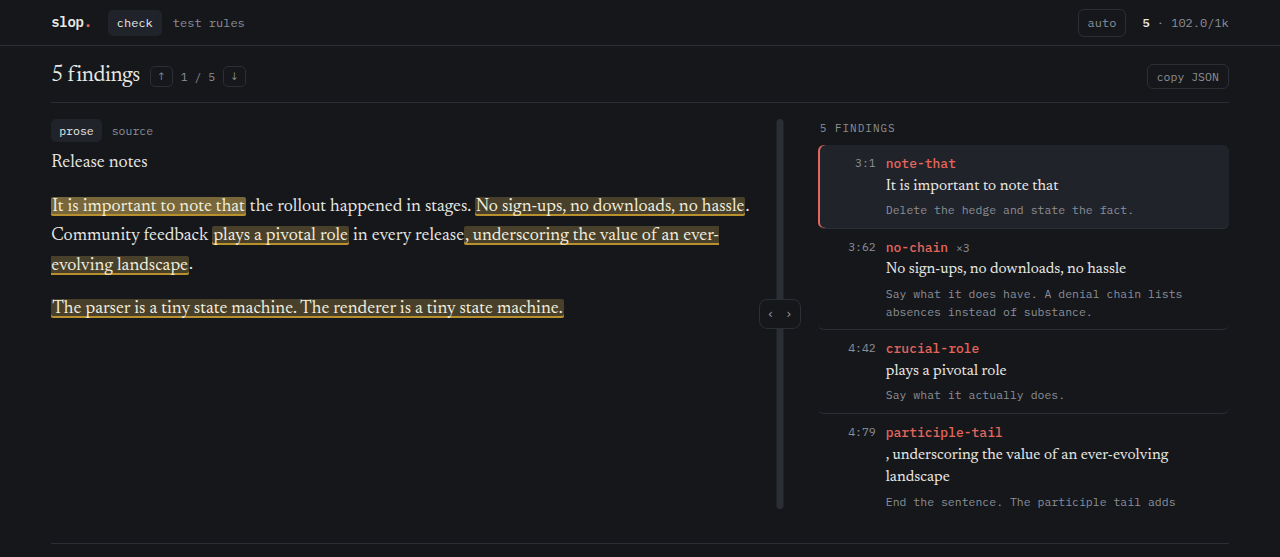
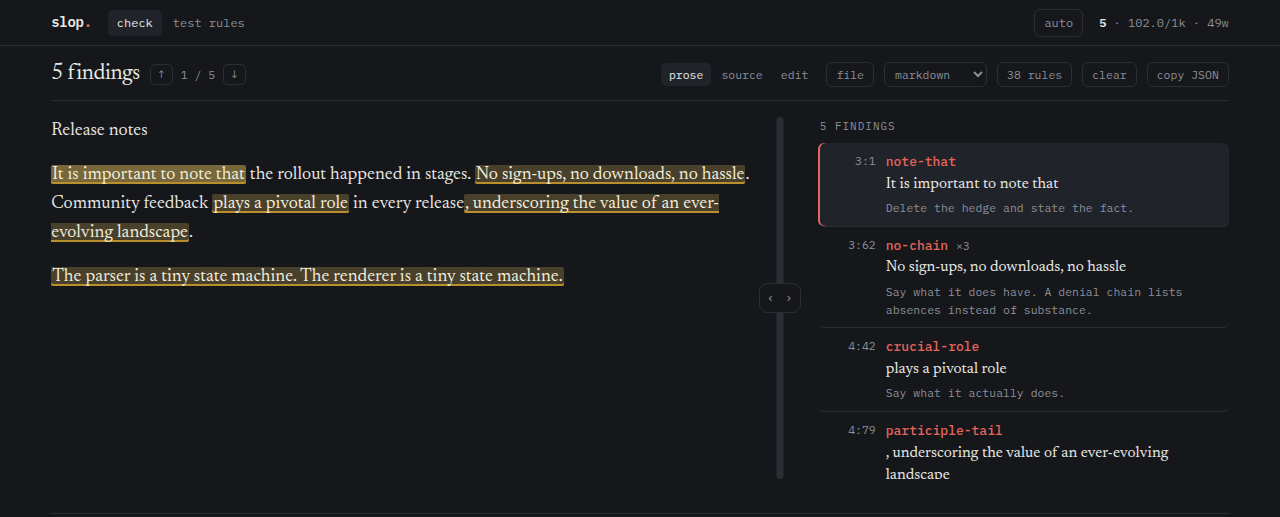
One region for the text: prose, source, or edit
The document was on screen twice - once in the input box, once again
under the source view. The input card is gone; the pane is the text, and
prose / source / edit are three views of it. Editing happens in place.

Everything that acts on the document sits in one row beside those views:
file, format, rules, clear, copy JSON. Load an example moves into the
empty state, where it belongs, rather than sitting in a toolbar
advertising itself over a document that is already loaded.

The format follows what you paste - markdown, HTML or plain text - until
you pick one yourself, and picking one stops the guessing until you
clear.

Empty, the pane is a live focused field with the invitation drawn over
it, because 'paste your writing here' needs somewhere to paste. That was
broken in the first cut of this: the hint appeared with no field behind
it.

Dropping a file over existing text replaces it, and clear empties
everything.

Claude-Session: https://claude.ai/code/session_018Qj5GUBjtVXSkmh6FBuMcT

diff --git a/web/index.html b/web/index.html
@@ -71,35 +71,31 @@ button,select,textarea,input{font:inherit;color:inherit}
 .hero .sub{color:var(--muted);font-size:12.5px;line-height:1.6;margin:0;max-width:62ch}
 .hero .sub code{background:var(--sunk);border-radius:4px;padding:1px 5px;color:var(--ink);white-space:nowrap}
 
-/* input — one card: the text, what to do with it, and which rules run. */
-.io{margin:22px 0 0}
-#input-card{
-  position:relative;border:1.5px dashed var(--hair);border-radius:10px;background:var(--card);
-  transition:border-color .12s,background .12s;
-}
-#input-card:focus-within{border-style:solid;border-color:var(--blue)}
-body.dragging #input-card{border-color:var(--blue);background:var(--sunk)}
+/* The pane is the text: read it, read the source, or edit it in place. */
 #input{
-  display:block;width:100%;min-height:132px;max-height:52vh;overflow:auto;resize:vertical;
-  border:0;background:none;padding:14px 16px 10px;color:inherit;
-  font-family:var(--mono);font-size:12.5px;line-height:1.7;
+  display:block;width:100%;min-height:min(66vh,640px);resize:none;
+  border:0;background:none;padding:0 2px;color:inherit;
+  font-family:var(--mono);font-size:12.5px;line-height:1.75;
 }
 #input:focus{outline:none}
-#input::placeholder{color:var(--muted)}
-.loaded{padding:16px;color:var(--muted);font-size:12.5px}
-.loaded b{color:var(--ink);font-weight:500}
-.tools{
-  display:flex;gap:8px;align-items:center;flex-wrap:wrap;
-  padding:9px 12px;border-top:1px solid var(--hair);
+.blank{
+  position:absolute;top:0;left:0;right:0;padding:30px 4px;max-width:52ch;
+  pointer-events:none;   /* the field underneath stays usable */
 }
-.tools select{background:var(--paper);border:1px solid var(--hair);border-radius:6px;padding:4px 7px;font-size:12px}
-.tools .n{margin-left:auto;color:var(--muted);font-size:11.5px;font-variant-numeric:tabular-nums}
+.blank .chip{pointer-events:auto}
+#pane-doc{position:relative}
+.blank .lead{font-family:var(--serif);font-size:22px;line-height:1.3;margin:0 0 8px;color:var(--ink)}
+.blank .sub{color:var(--muted);font-size:12.5px;line-height:1.6;margin:0 0 16px}
+.blank code{background:var(--sunk);border-radius:4px;padding:1px 5px;color:var(--ink)}
+body.dragging #pane-doc{outline:2px dashed var(--blue);outline-offset:6px;border-radius:8px}
 
 /* results */
 .results{margin:26px 0 0}
 .rhead{display:flex;align-items:center;gap:10px;padding-bottom:9px;border-bottom:1px solid var(--hair);margin-bottom:16px;flex-wrap:wrap}
 .rhead h2{font-family:var(--serif);font-size:22px;font-weight:400;margin:0;letter-spacing:-.015em}
+.rhead{position:relative}
 .rhead .chip{padding:3px 9px;font-size:11.5px}
+.rhead select{background:var(--paper);border:1px solid var(--hair);border-radius:6px;padding:3px 6px;font-size:11.5px;color:var(--muted)}
 .rhead .chip.done{border-color:var(--blue);color:var(--blue)}
 #copy-fallback{width:100%;height:150px;margin-bottom:12px;font-family:var(--mono);font-size:11.5px;
   border:1px solid var(--blue);border-radius:8px;background:var(--sunk);padding:10px;color:var(--ink)}
@@ -347,28 +343,6 @@ body.resizing{cursor:col-resize;user-select:none}
     <p class="sub">Flags stock LLM phrasing — <code>it is important to note that</code>, <code>no X, no Y, no Z</code> — at the line it came from, with the fix. Nothing leaves your browser.</p>
   </div>
 
-  <div class="io" id="io">
-    <div class="card" id="input-card">
-      <textarea id="input" spellcheck="false" placeholder="Paste text here, or drop files, a folder or a .zip anywhere on the page."></textarea>
-      <div class="loaded" id="loaded" hidden></div>
-      <div class="tools">
-        <button class="chip" id="b-example">Load an example</button>
-        <button class="chip" id="b-file">Choose a file</button>
-        <select id="kind" aria-label="How to parse the input">
-          <option value="md">markdown</option>
-          <option value="html">html</option>
-          <option value="txt">plain text</option>
-        </select>
-        <button class="chip" id="b-rules" aria-expanded="false" title="Choose which rules run">rules</button>
-        <span class="n" id="meta"></span>
-      </div>
-      <div class="pop" id="rules-pop" hidden>
-        <div class="pop-head">Rules <span id="rule-hint"></span></div>
-        <div class="rulebox" id="rules"></div>
-      </div>
-    </div>
-  </div>
-
   <div class="results" id="results" hidden>
     <div class="rhead">
       <h2 id="r-title"></h2>
@@ -378,7 +352,24 @@ body.resizing{cursor:col-resize;user-select:none}
         <button id="n-next" title="Next finding (j or ↓)" aria-label="Next finding">↓</button>
       </div>
       <span class="spacer"></span>
+      <div class="seg" id="views">
+        <button id="v-prose" aria-pressed="true">prose</button>
+        <button id="v-source" aria-pressed="false">source</button>
+        <button id="v-edit" aria-pressed="false">edit</button>
+      </div>
+      <button class="chip" id="b-file">file</button>
+      <select id="kind" aria-label="How to parse the input">
+        <option value="md">markdown</option>
+        <option value="html">html</option>
+        <option value="txt">plain text</option>
+      </select>
+      <button class="chip" id="b-rules" aria-expanded="false" title="Choose which rules run">rules</button>
+      <button class="chip" id="b-clear" hidden>clear</button>
       <button class="chip" id="b-copy" hidden title="Copy the findings as JSON — the same shape as --format json">copy JSON</button>
+      <div class="pop" id="rules-pop" hidden>
+        <div class="pop-head">Rules <span id="rule-hint"></span></div>
+        <div class="rulebox" id="rules"></div>
+      </div>
     </div>
     <textarea id="copy-fallback" hidden aria-label="Findings JSON, select and copy"></textarea>
     <div class="workspace" id="workspace">
@@ -393,13 +384,13 @@ body.resizing{cursor:col-resize;user-select:none}
     </div>
     <div class="panes" id="panes" data-layout="split">
       <div class="pane" id="pane-doc">
-        <div class="phead">
-          <div class="seg" id="views">
-            <button id="v-prose" aria-pressed="true">prose</button>
-            <button id="v-source" aria-pressed="false">source</button>
-          </div>
-        </div>
         <div id="doc" class="prose"></div>
+        <textarea id="input" spellcheck="false" hidden></textarea>
+        <div class="blank" id="blank" hidden>
+          <p class="lead">Paste your writing here, or drop a file.</p>
+          <p class="sub">Markdown, HTML or plain text — a folder or a <code>.zip</code> works too.</p>
+          <button class="chip" id="b-example">Load an example</button>
+        </div>
       </div>
       <div class="divider" id="divider">
         <div class="grip" id="grip" role="separator" aria-orientation="vertical"
@@ -489,7 +480,7 @@ const S = { sets:[], active:new Set(), docs:[], results:[], flat:[], cur:0, doc:
             view:'prose', mode:'check', sel:-1, fudge:null,
             layout:store('pc-layout', 'split'),
             split:parseFloat(store('pc-split', '60')),
-            setOpen:{}, byId:{},
+            setOpen:{}, byId:{}, kindLocked:false,
             tree:store('pc-tree', 'open'),
             treeW:parseFloat(store('pc-treew', '220')) };
 
@@ -658,21 +649,40 @@ function renderResults() {
     res.hidden = false;
     $('views').hidden = $('nav').hidden = $('b-copy').hidden = true;
     $('copy-fallback').hidden = $('divider').hidden = true;
+    $('b-clear').hidden = $('blank').hidden = $('input').hidden = true;
+    $('doc').hidden = false;
     $('panes').dataset.layout = 'text';
     $('workspace').removeAttribute('data-multi');
     $('tree').hidden = true;
     renderFudge();
     return;
   }
-  $('views').hidden = $('divider').hidden = false;
-  if (!currentDocs().some((d) => d.src.trim())) { res.hidden = true; return; }
   res.hidden = false;
+  const empty = !currentDocs().some((d) => d.src.trim());
+  const editing = S.view === 'edit';
+  $('blank').hidden = !empty;
+  $('input').hidden = !(editing || empty);   // empty keeps a live field to paste into
+  $('doc').hidden = editing || empty;
+  $('views').hidden = empty;
+  $('divider').hidden = $('pane-list').hidden = empty;
+  $('b-clear').hidden = empty;
+  $('v-edit').hidden = (S.results || []).length > 1;   // one document at a time
+  if (empty) {
+    $('r-title').textContent = '';
+    $('nav').hidden = $('b-copy').hidden = true;
+    $('workspace').removeAttribute('data-multi');
+    $('tree').hidden = true;
+    renderRules();
+    if (document.activeElement !== $('input')) $('input').focus({ preventScroll: true });
+    return;
+  }
 
   const results = S.results || [];
   const total = S.flat.length;
   const multi = results.length > 1;
-  const useSrc = S.view === 'source';
+  const useSrc = S.view !== 'prose';
   const srcs = currentDocs();
+  if (S.view === 'edit' && $('input').value !== (srcs[0] || {}).src) $('input').value = (srcs[0] || {}).src || '';
   $('r-title').textContent = multi
     ? `${total} finding${total === 1 ? '' : 's'} in ${results.length} files`
     : (total ? `${total} finding${total === 1 ? '' : 's'}` : 'No findings');
@@ -714,8 +724,8 @@ function renderResults() {
     li.onmouseleave = hideTip;
   }
 
-  $('v-prose').setAttribute('aria-pressed', String(!useSrc));
-  $('v-source').setAttribute('aria-pressed', String(useSrc));
+  for (const [id, v] of [['v-prose','prose'],['v-source','source'],['v-edit','edit']])
+    $(id).setAttribute('aria-pressed', String(S.view === v));
   applyLayout();
   $('nav').hidden = !total;
   $('b-copy').hidden = !results.length;
@@ -956,7 +966,6 @@ function loadDocs(docs, skipped = 0) {
   S.cur = 0;
   S.sel = -1;
   if (docs.length === 1) { $('input').value = docs[0].src; S.kind = docs[0].kind; $('kind').value = S.kind; }
-  grow();
   run();
 }
 
@@ -1007,29 +1016,12 @@ function pickFile(accept, cb) {
   i.click();
 }
 
-function grow() {
-  const t = $('input');
-  t.style.height = 'auto';
-  t.style.height = Math.max(132, Math.min(t.scrollHeight + 4, innerHeight * 0.52)) + 'px';
-}
-
 /* run */
 let timer = null;
 function run() {
   clearTimeout(timer);
   timer = setTimeout(async () => {
     renderRules();
-    // The card stays for a loaded set — the text area gives way to a summary,
-    // so the rules control and the file picker never go out of reach.
-    $('io').hidden = S.mode === 'fudge';
-    const many = S.docs.length > 1;
-    $('input').hidden = $('kind').hidden = many;
-    $('loaded').hidden = !many;
-    if (many) {
-      $('loaded').innerHTML = `<b>${S.docs.length} files</b> loaded`
-        + (S.skipped ? ` · ${S.skipped} skipped (not text)` : '')
-        + ` ${esc('—')} drop more to replace them`;
-    }
     if (S.mode === 'fudge') {
       S.fudge = null; renderResults();
       const res = await ask({ mode:'fudge', sets:S.sets }, 60000);
@@ -1043,7 +1035,7 @@ function run() {
     }
     const docs = currentDocs();
     if (!docs.some((d) => d.src.trim())) {
-      S.results = []; S.flat = []; $('score').textContent = ''; $('meta').textContent = '';
+      S.results = []; S.flat = []; $('score').textContent = '';
       renderResults(); return;
     }
     const res = await ask({ mode:'check', docs, sets:S.sets, active:[...S.active] }, 20000);
@@ -1058,9 +1050,8 @@ function run() {
     const words = S.results.reduce((a, r) => a + r.words, 0);
     const per = words ? (total / words * 1000).toFixed(1) : '0.0';
     $('score').className = 'score' + (total ? '' : ' zero');
-    $('score').innerHTML = `<b>${total}</b> · ${per}/1k`
+    $('score').innerHTML = `<b>${total}</b> · ${per}/1k · ${words}w`
       + (S.results.length > 1 ? ` · ${S.results.length} files` : '');
-    $('meta').textContent = `${words} words`;
     renderResults(); renderRules();
   }, 160);
 }
@@ -1094,10 +1085,32 @@ for (const pre of document.querySelectorAll('.docs pre')) {
 }
 
 /* wiring */
-$('input').addEventListener('input', () => { $('copy-fallback').hidden = true; grow(); run(); });
-$('kind').addEventListener('change', () => { S.kind = $('kind').value; run(); });
-$('v-prose').onclick = () => { S.view = 'prose'; renderResults(); };
-$('v-source').onclick = () => { S.view = 'source'; renderResults(); };
+$('input').addEventListener('input', () => {
+  $('copy-fallback').hidden = true;
+  if (!S.kindLocked) {
+    const k = detectKind($('input').value);
+    if (k !== S.kind) { S.kind = k; $('kind').value = k; }
+  }
+  run();
+});
+$('kind').addEventListener('change', () => { S.kind = $('kind').value; S.kindLocked = true; run(); });
+
+// Guess the format from what was pasted, until the reader picks one themselves.
+function detectKind(src) {
+  const head = src.slice(0, 4000);
+  if (/^\s*<(?:!doctype|html|head|body|article|section|div|p|h[1-6])\b/i.test(head)
+      || /<\/(?:p|div|h[1-6]|li|td|table|section|article)>/i.test(head)) return 'html';
+  if (/^\s{0,3}#{1,6}\s|^\s*[-*+]\s|^\s*\d+[.)]\s|^\s*>\s|```|~~~|\[[^\]]*\]\([^)]*\)|\*\*[^*\n]+\*\*/m.test(head)) return 'md';
+  return 'txt';
+}
+for (const [id, v] of [['v-prose','prose'],['v-source','source'],['v-edit','edit']]) {
+  $(id).onclick = () => { S.view = v; renderResults(); if (v === 'edit') $('input').focus(); };
+}
+$('b-clear').onclick = () => {
+  $('input').value = ''; S.docs = []; S.results = []; S.flat = []; S.skipped = 0;
+  S.sel = -1; S.cur = 0; S.name = 'input'; S.kindLocked = false; S.view = 'prose';
+  run();
+};
 $('n-prev').onclick = () => step(-1);
 $('n-next').onclick = () => step(1);
 
@@ -1209,7 +1222,7 @@ underscoring the value of an ever-evolving landscape.
 The parser is a tiny state machine. The renderer is a tiny state machine.
 
 That's the whole point, and you already know the answer.`;
-  grow(); run();
+  run();
 };
 $('b-file').onclick = () => {
   const i = Object.assign(document.createElement('input'), {
@@ -1272,7 +1285,7 @@ await readHash();
 S.kind = $('kind').value = S.kind;
 $('m-check').setAttribute('aria-pressed', String(S.mode === 'check'));
 $('m-fudge').setAttribute('aria-pressed', String(S.mode === 'fudge'));
-grow(); run();
+run();
 </script>
 </body>
 </html>

diff --git a/docs/web.md b/docs/web.md
@@ -19,12 +19,20 @@ continuous scroll, the findings pane runs through all of them grouped by file,
 and next/prev crosses file boundaries. A file list on the left shows which file
 you are in as you scroll and jumps you to any of them.
 
-The input is one card: the text, the buttons that fill it, and the **rules**
-control that decides what runs over it. The rules button opens a panel of the
-loaded sets, each collapsible, with per-rule finding counts and a URL box for
-adding another. It carries the state — `38 rules`, or `11/38 rules` once you
-turn some off. Load a directory and the text area gives way to a summary, so the
-card and its controls stay put.
+There is one region for the text, with three views of it: **prose** (what the
+rules read, with findings highlighted), **source** (your original, highlighted
+the same way), and **edit** (type in place; it re-lints as you go). Editing and
+reading are the same pane, so your document is never shown twice.
+
+Beside them sits everything that acts on it: **file** to pick one, the format,
+**rules**, **clear**, and **copy JSON**. The format follows what you paste —
+markdown, HTML or plain text — until you choose one yourself. The **rules**
+button opens a panel of the loaded sets, each collapsible, with per-rule
+finding counts and a URL box for adding another; it carries the state, `38
+rules` or `11/38 rules` once some are off.
+
+Empty, the pane is a live field with the invitation over it, so you can paste
+straight in.
 
 Three columns — files, document, findings — separated by dividers you can drag
 to resize or step left and right to collapse. A theme control in the bar chooses
